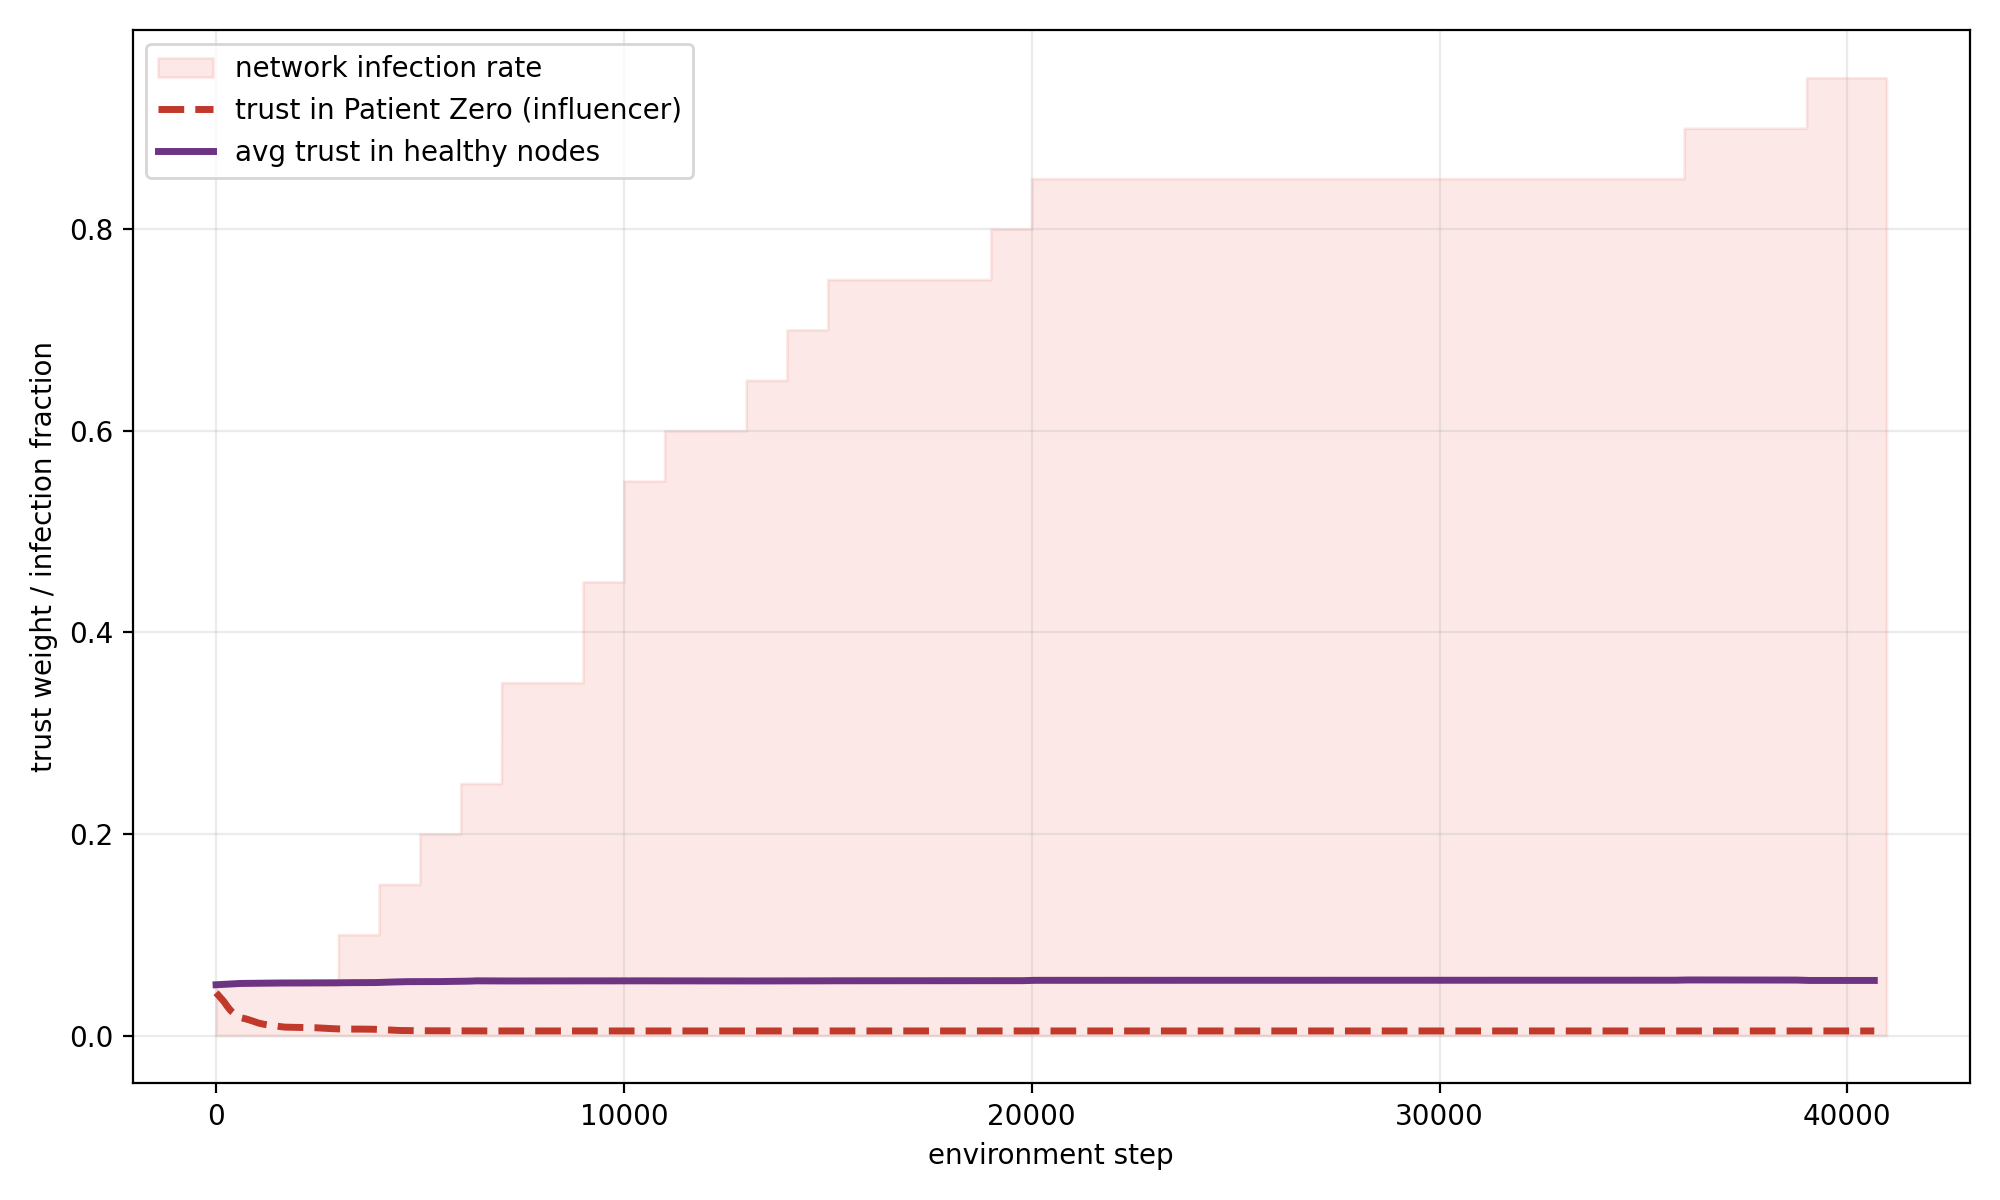
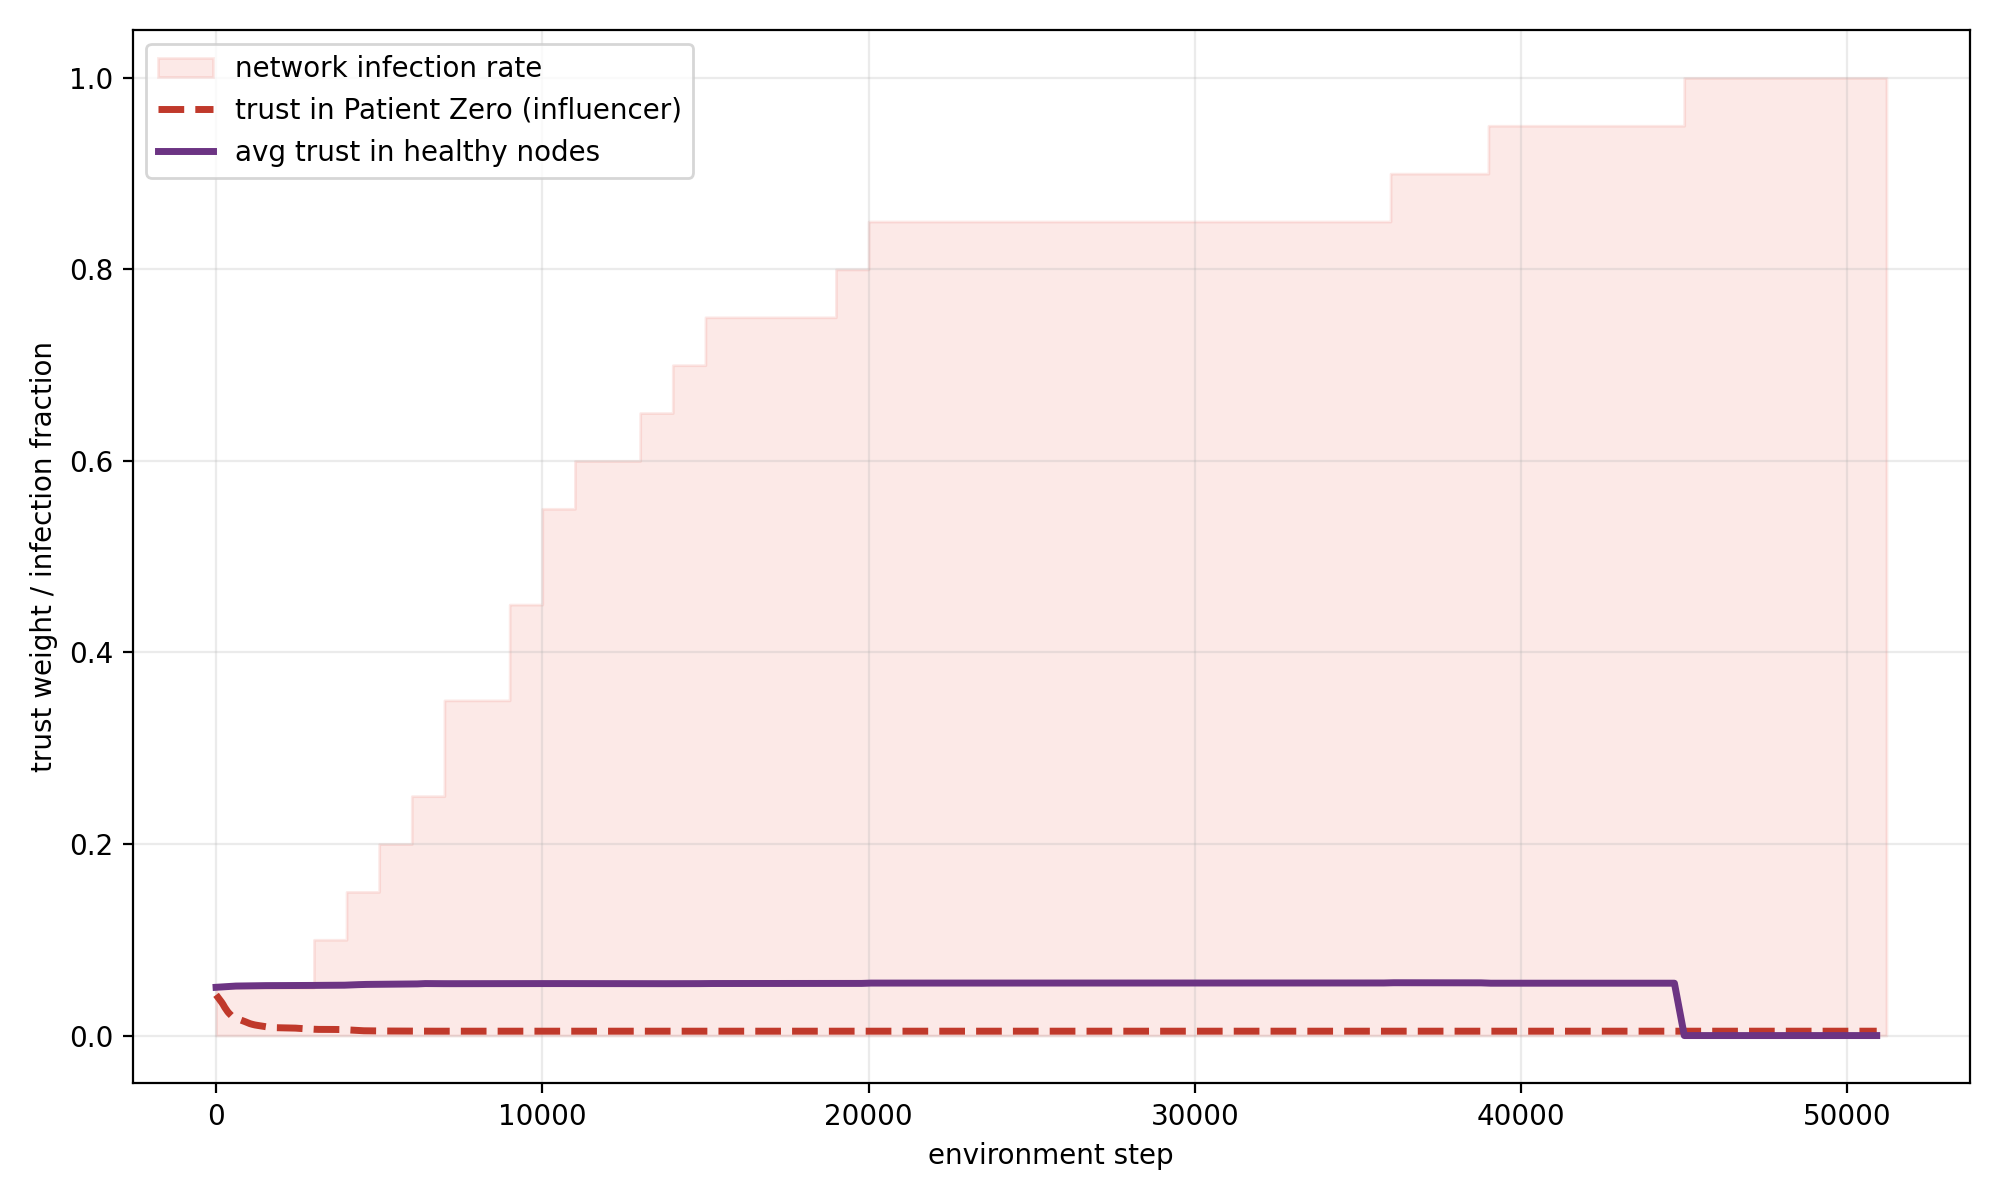
standardize all MDP runs to 50,000 episodes/timesteps
- gridworld EPISODES 3000 -> 50000: at 50k, region-trust ESA fully escapes the
  sycophant trap (P(candy)=0.00, ~7.7k audits/seed); global-trust ESA improves to
  0.60 but stays trapped; Mean/Median 1.00.
- hopper_irl and topology default timesteps 40000 -> 50000 (Hopper main already 50k).
- figures regenerated (title-free) at the standardized horizon.

diff --git a/exp_mdp_gridworld.py b/exp_mdp_gridworld.py
@@ -31,7 +31,7 @@ from esa_mdp import ContextualTrust
 
 # --- config ---
 SEEDS = 15
-EPISODES = 3000
+EPISODES = 50000
 MAX_STEPS = 40
 WINDOW = 75
 P_REF = 0.10          # audit probability (spot-check of the latent reward)

diff --git a/exp_mdp_hopper_irl.py b/exp_mdp_hopper_irl.py
@@ -112,7 +112,7 @@ def eval_latent(model, steps=3000, seed=123):
 
 if __name__ == "__main__":
     ap = argparse.ArgumentParser()
-    ap.add_argument("--timesteps", type=int, default=40000)
+    ap.add_argument("--timesteps", type=int, default=50000)
     ap.add_argument("--seed", type=int, default=0)
     args = ap.parse_args()
 

diff --git a/exp_mdp_topology.py b/exp_mdp_topology.py
@@ -109,7 +109,7 @@ def roll(a, w=300):
 
 if __name__ == "__main__":
     ap = argparse.ArgumentParser()
-    ap.add_argument("--timesteps", type=int, default=40000)
+    ap.add_argument("--timesteps", type=int, default=50000)
     ap.add_argument("--seed", type=int, default=0)
     args = ap.parse_args()
 